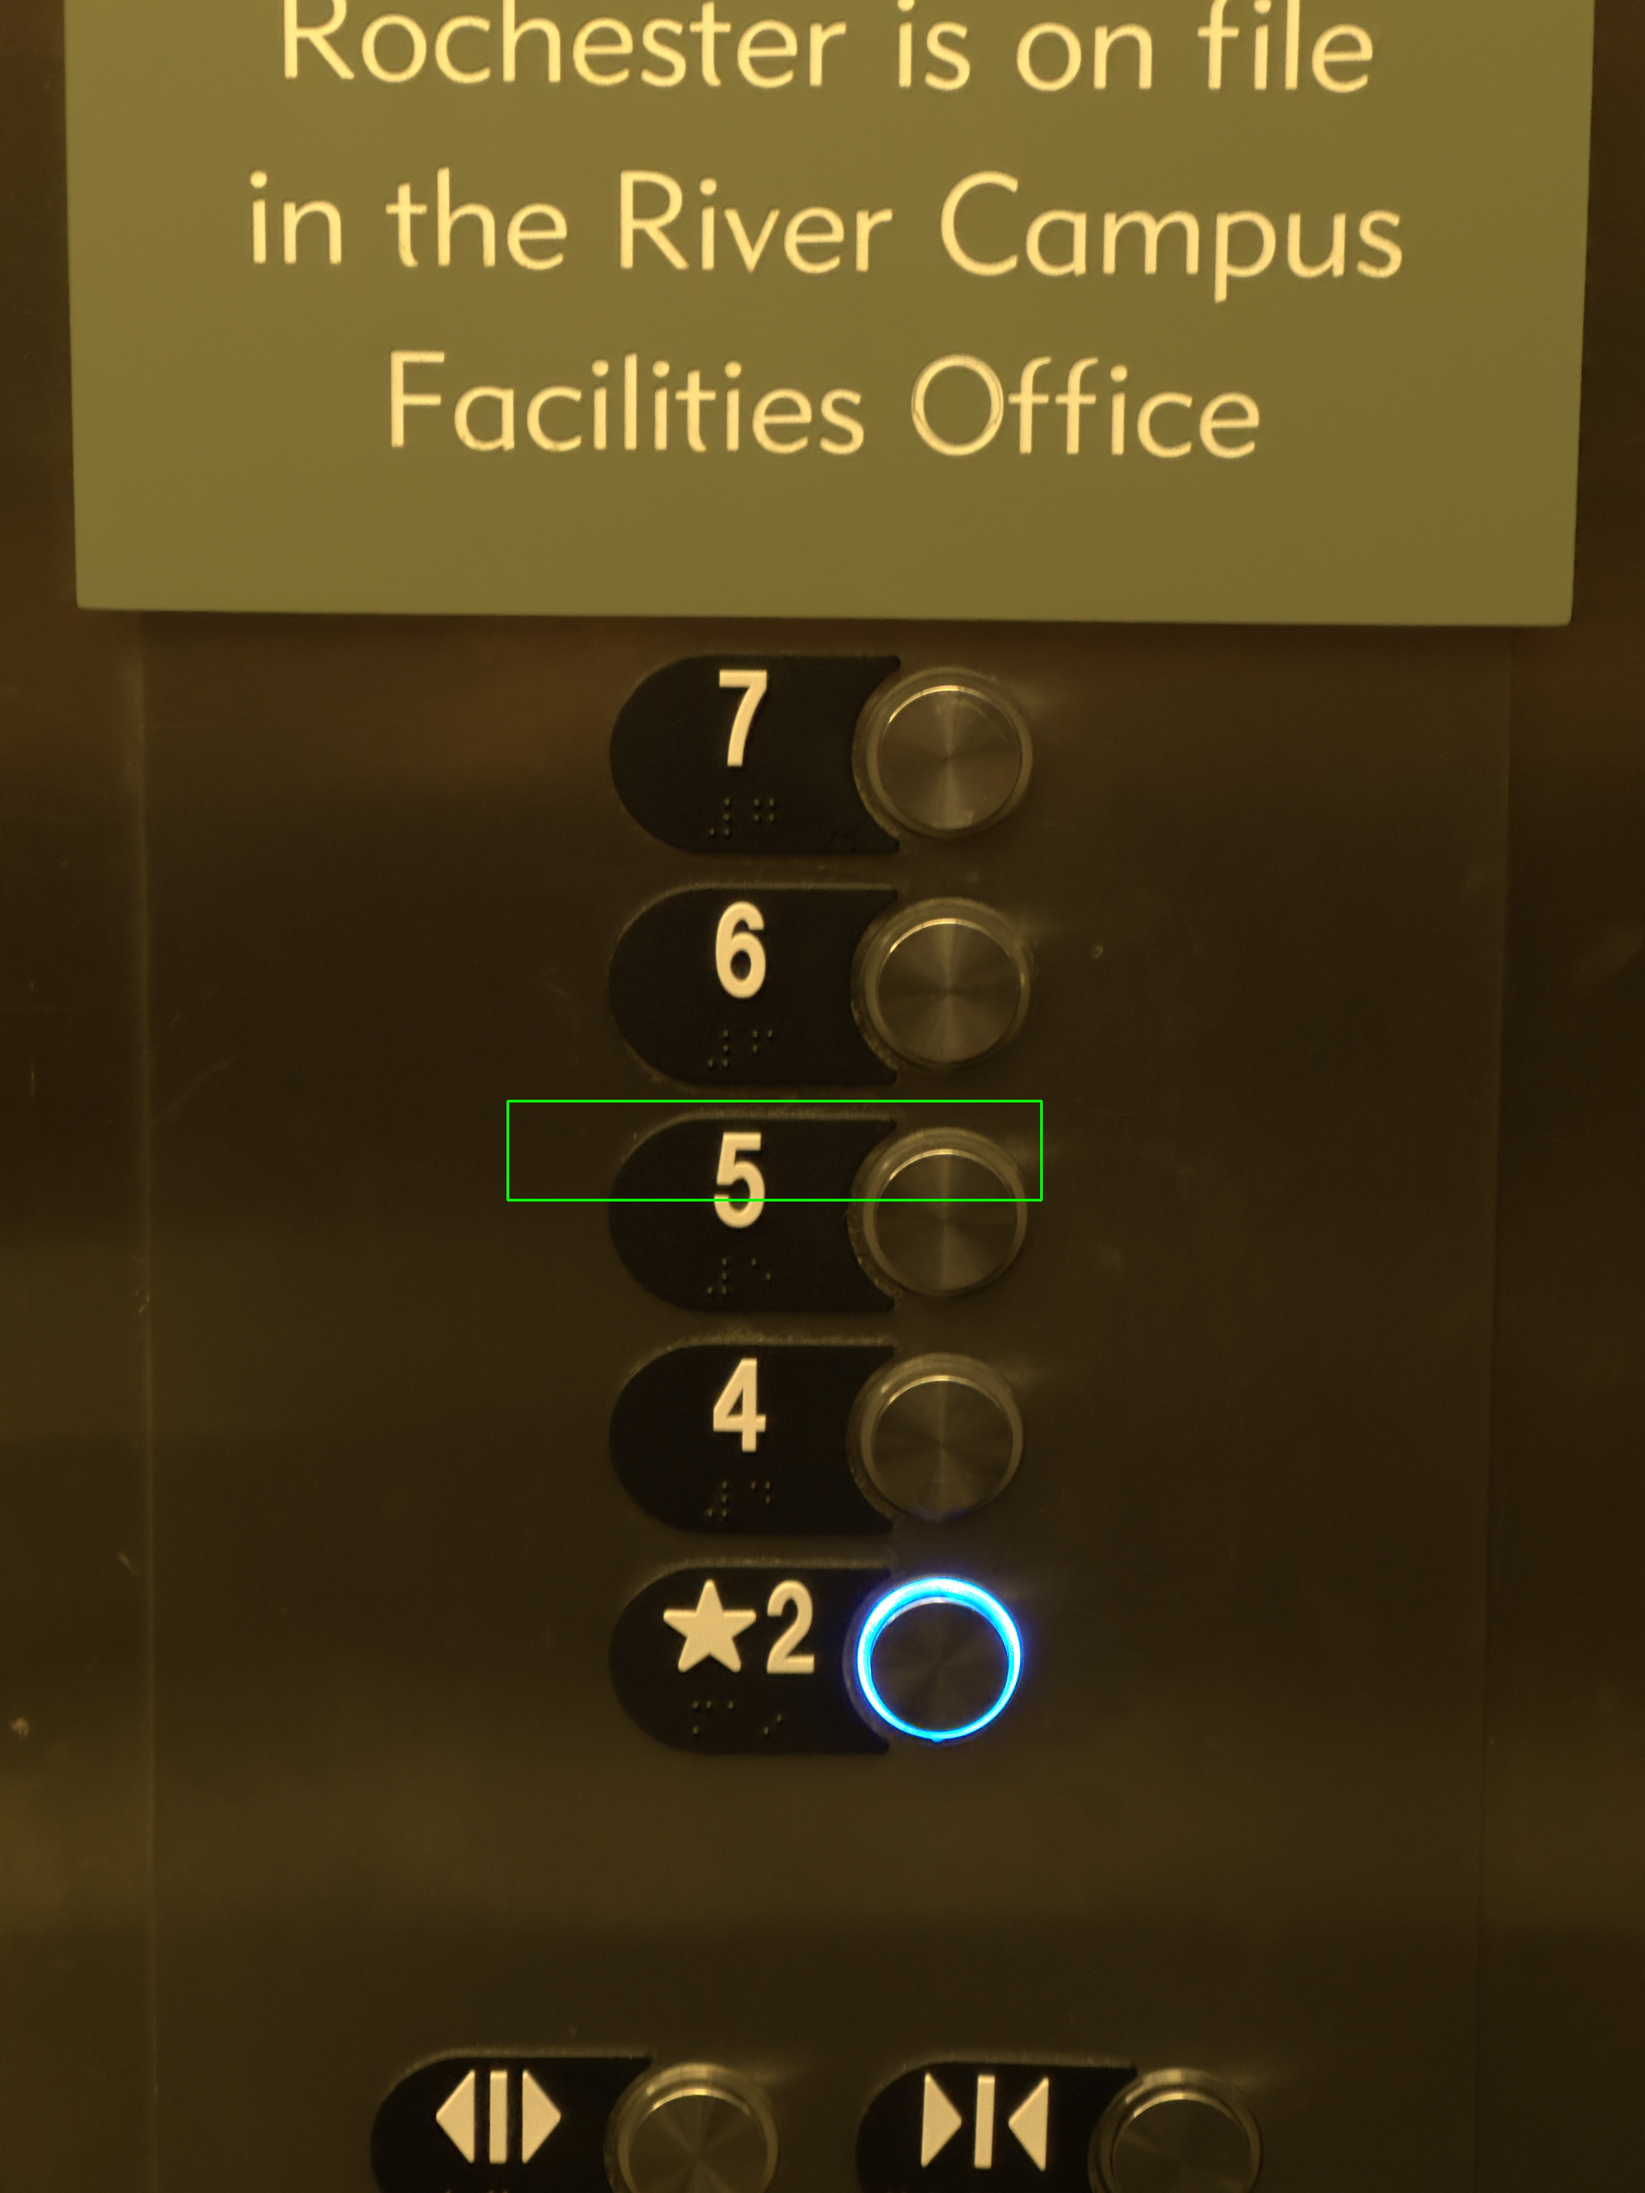
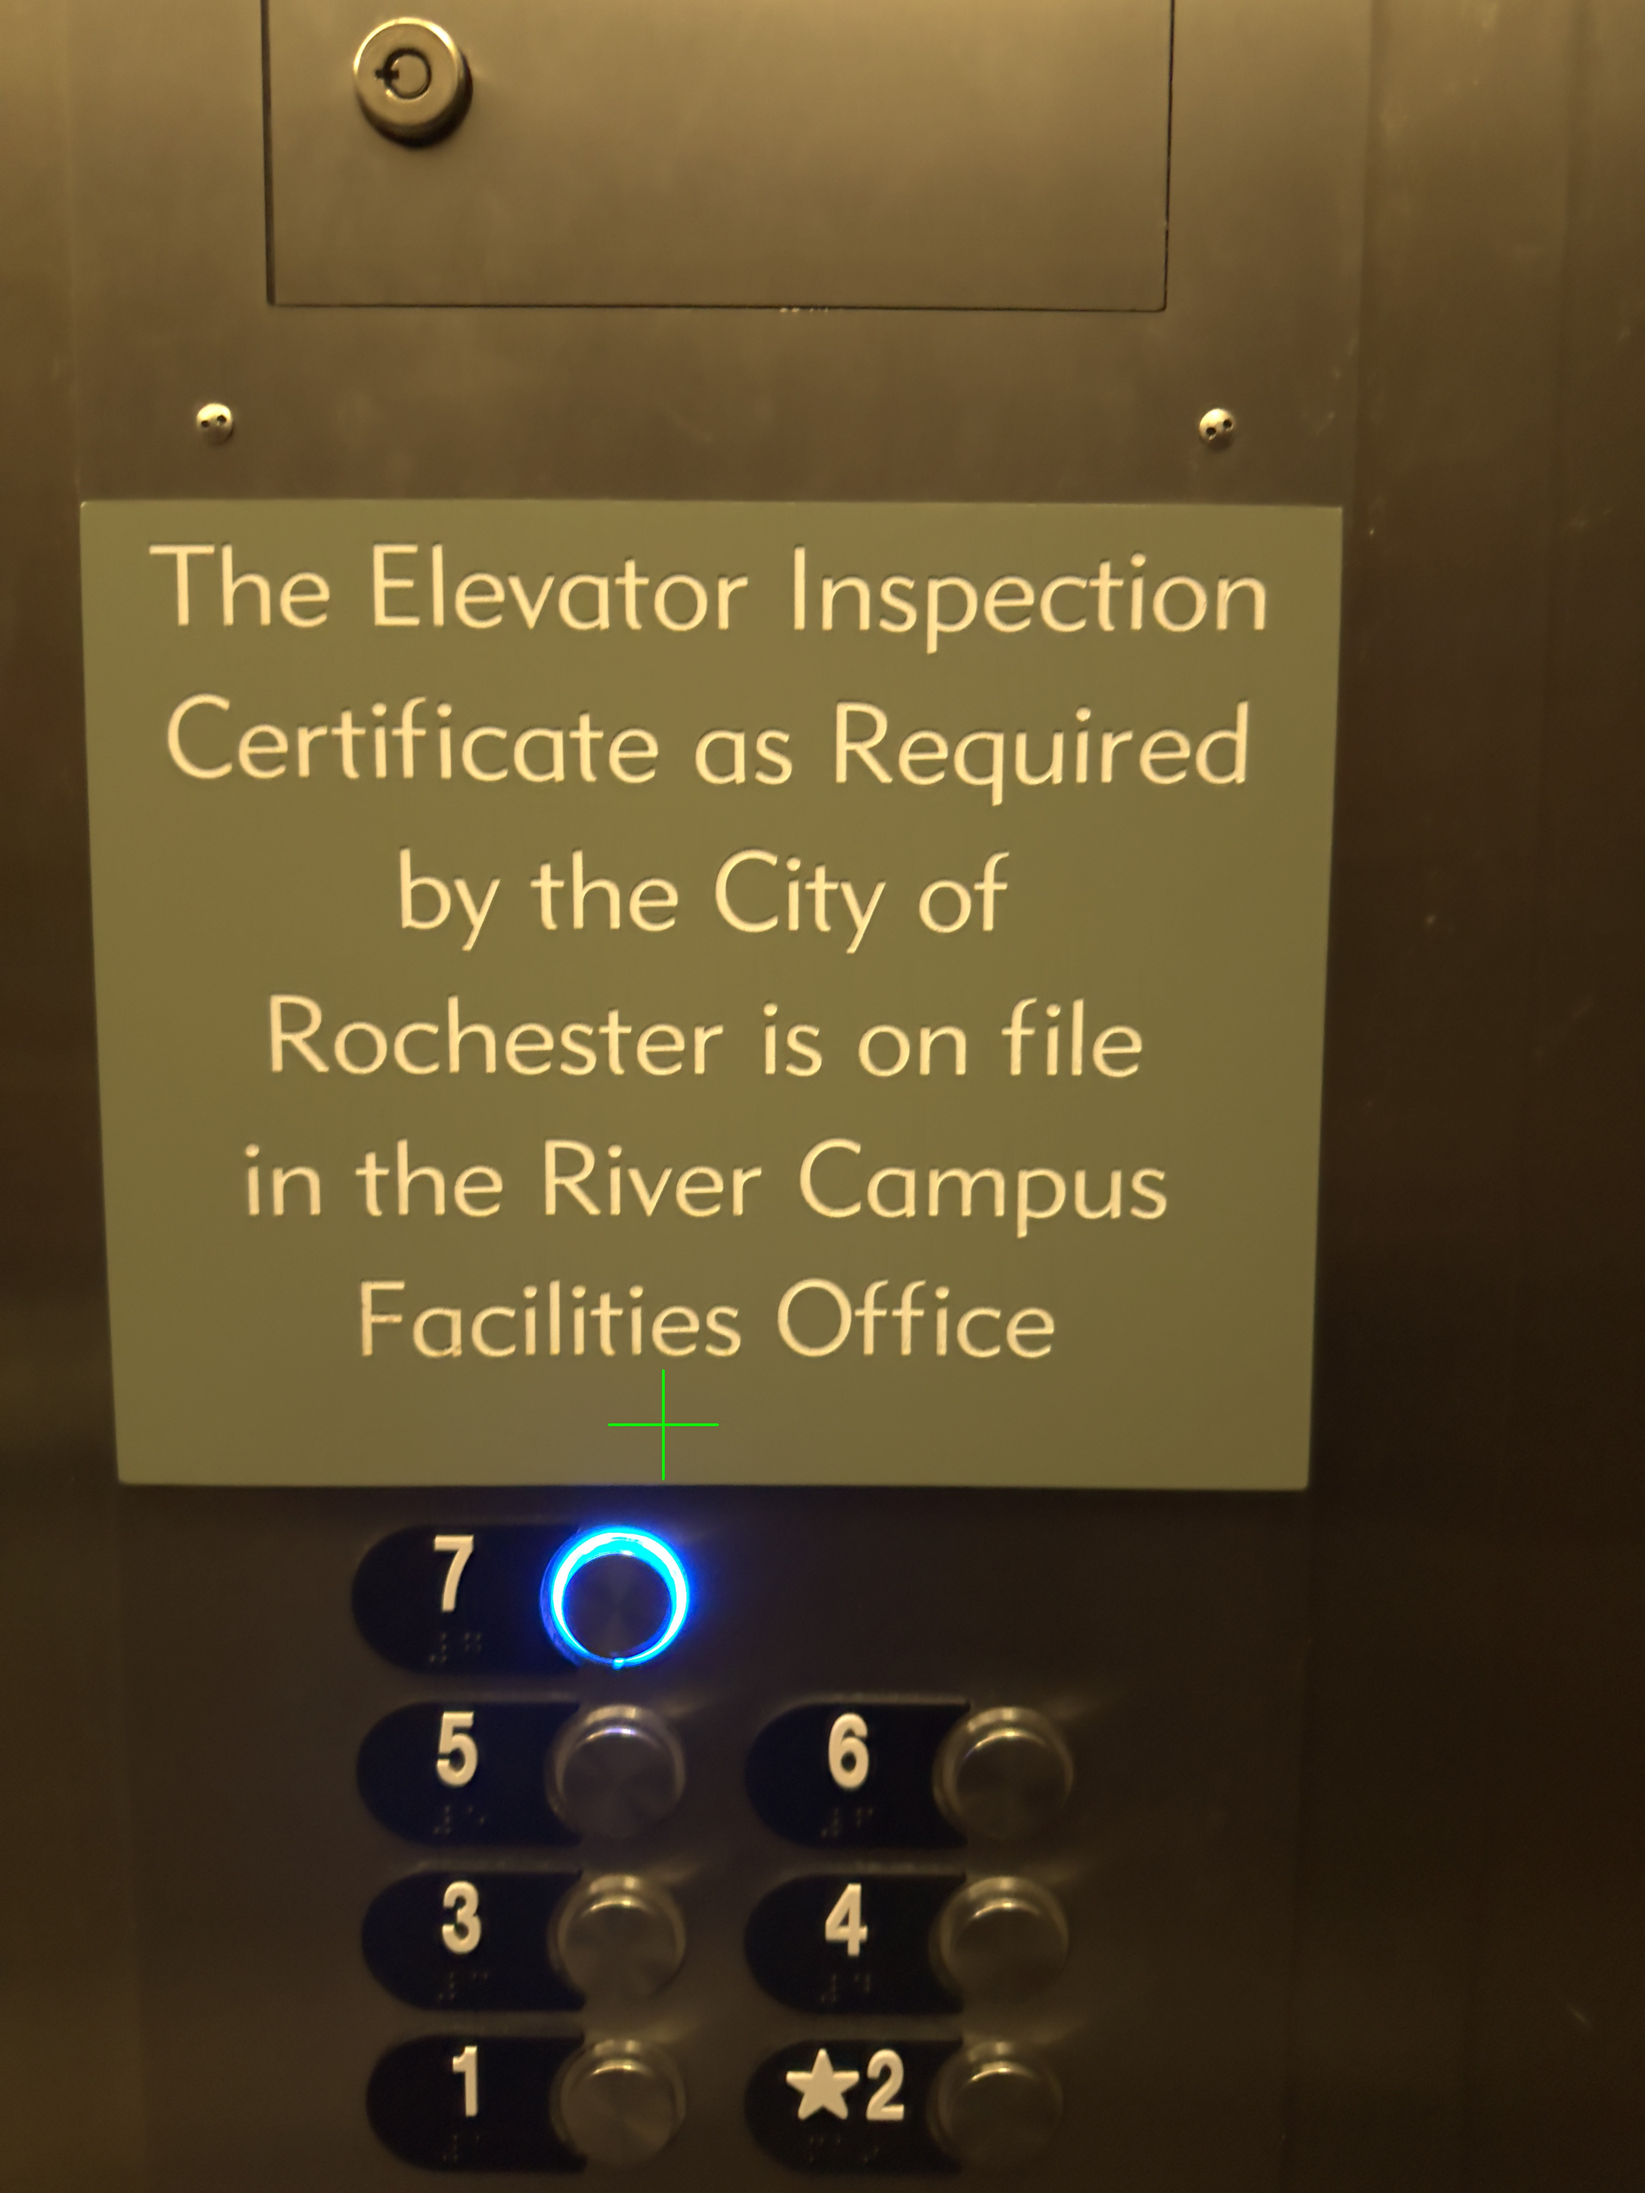
pretty accurate finding 5

diff --git a/alt_button_vision_tv.py b/alt_button_vision_tv.py
@@ -11,8 +11,7 @@ def find_template_in_image(test_image_path, template_image_path):
     gray_template = cv2.cvtColor(template, cv2.COLOR_BGR2GRAY)
 
     # Initialize ORB detector
-    #orb = cv2.ORB_create()
-    orb = cv2.ORB_create(nfeatures=1000)  # Increase keypoints
+    orb = cv2.ORB_create(nfeatures=1000)
 
     # Detect keypoints and descriptors
     kp_image, des_image = orb.detectAndCompute(gray_image, None)
@@ -26,57 +25,46 @@ def find_template_in_image(test_image_path, template_image_path):
     matches = sorted(matches, key=lambda x: x.distance)
 
     # Check if there are enough good matches
-    if len(matches) < 3:
+    if len(matches) < 1:
         print("No good matches found! Try adjusting the threshold or template size.")
         return None, None
 
     # Extract the location of good matches
-    points_image = np.float32([kp_image[m.queryIdx].pt for m in matches[:10]]).reshape(-1, 1, 2)
+    points_image = np.float32([kp_image[m.queryIdx].pt for m in matches[:30]]).reshape(-1, 1, 2)
     
     if len(points_image) > 0:
         # Compute the center of the matched points
-        center_x = np.mean([p[0][0] for p in points_image])
-        center_y = np.mean([p[0][1] for p in points_image])
+        center_x = int(np.mean([p[0][0] for p in points_image]))
+        center_y = int(np.mean([p[0][1] for p in points_image]))
 
-        # Calculate width and height of bounding box
-        width = np.std([p[0][0] for p in points_image]) * 4  # Extend width
-        height = np.std([p[0][1] for p in points_image]) * 1.5  # Reduce height
-
-        # Apply scaling factor to keep it **horizontally long**
-        scale_factor_width = 1.5  # Increase width
-        scale_factor_height = 0.4  # Decrease height
-
-        width *= scale_factor_width
-        height *= scale_factor_height
-
-        # Define bounding box coordinates
-        min_x = int(center_x - width / 2)
-        max_x = int(center_x + width / 2)
-        min_y = int(center_y - height / 2)
-        max_y = int(center_y + height / 2)
-
-        # Draw the adjusted bounding box
+        # Draw a crosshair at the detected location
         result_image = image.copy()
-        cv2.rectangle(result_image, (min_x, min_y), (max_x, max_y), (0, 255, 0), 3)
+        crosshair_size = 100  # Increased size of crosshair lines
+        crosshair_color = (0, 255, 0)  # Blue color in BGR format
+        
+        # Horizontal line
+        cv2.line(result_image, (center_x - crosshair_size, center_y), (center_x + crosshair_size, center_y), crosshair_color, 3)
+        # Vertical line
+        cv2.line(result_image, (center_x, center_y - crosshair_size), (center_x, center_y + crosshair_size), crosshair_color, 3)
 
         # Save the result
         output_image_path = 'detected_template_output.jpg'
         cv2.imwrite(output_image_path, result_image)
 
         # Show the image
-        cv2.imshow("Detected Template with Horizontally Long Bounding Box", result_image)
-        cv2.waitKey(10000)
+        cv2.imshow("Detected Template with Crosshair", result_image)
+        cv2.waitKey(5000)
         cv2.destroyAllWindows()
 
         # Return coordinates
-        return [(min_x, min_y), (max_x, max_y)], output_image_path
+        return (center_x, center_y), output_image_path
     else:
         print("No matches found!")
         return None, None
 
 # Example usage
-test_image_path = 'testpic6.jpg'  # Full elevator panel
-template_image_path = 'templatefive.jpg'   # Template (button 5)
+test_image_path = 'testpic4.jpg'  
+template_image_path = 'newtemp.jpg'  
 coordinates, output_image_path = find_template_in_image(test_image_path, template_image_path)
 
 if coordinates is not None:
